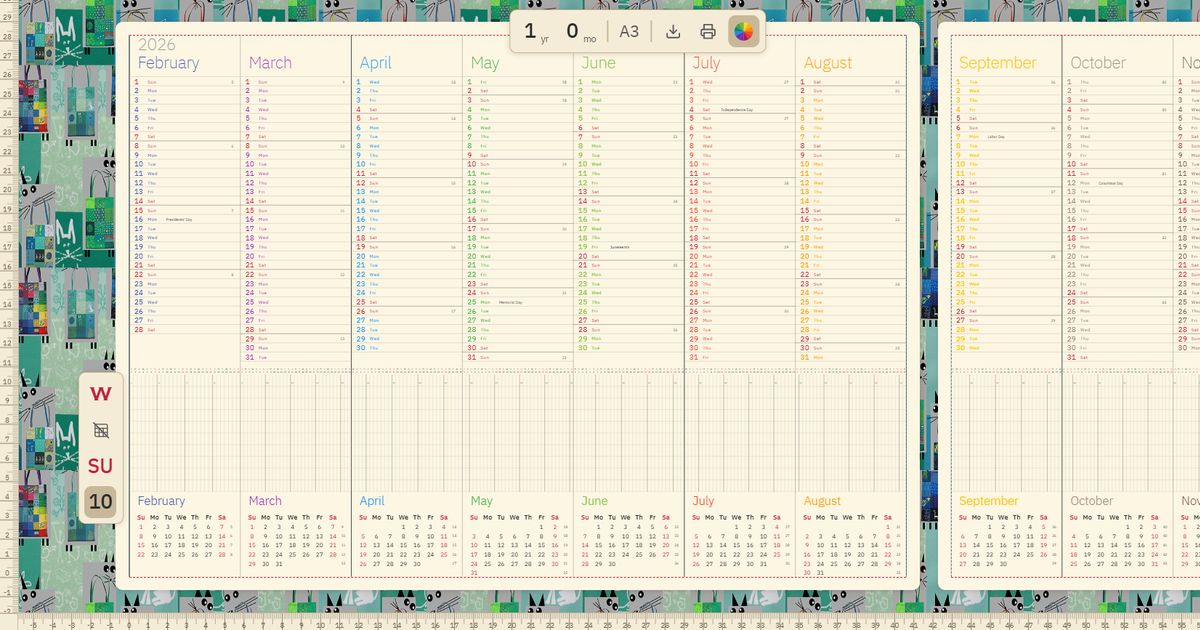
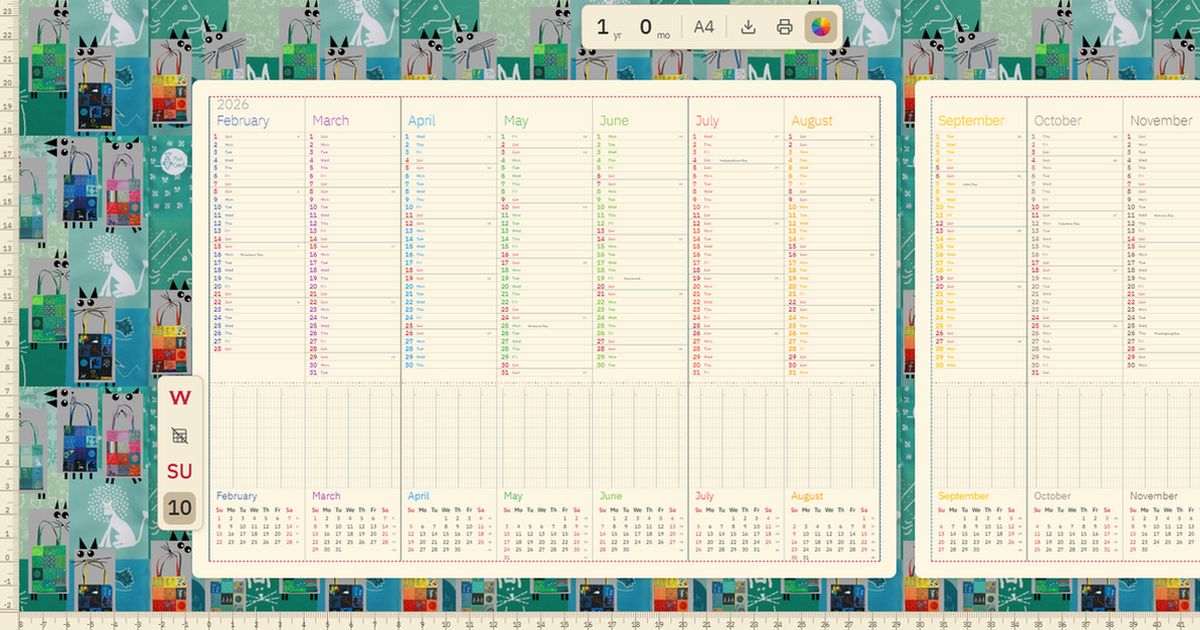
Update docs: Architecture, README, User Manual, LLM texts for Phase 7
- ARCHITECTURE.md: SCALE=16 layout constants, progressive pipeline, optimizations table
- miro-app/README.md: native elements, updated project structure
- README.md: og-image.jpg, Miro App feature row
- USER_MANUAL.md: Miro App section (usage, web vs Miro comparison)
- llms.txt: Miro plugin mention
- llms-full.txt: full Miro App section, roadmap item 10 marked done

diff --git a/miro-app/ARCHITECTURE.md b/miro-app/ARCHITECTURE.md
@@ -40,7 +40,7 @@ app.tsx → generator.ts → native-generator.ts → calendar-engine.ts
 
 ---
 
-## Calendar Layout (SVG Rows)
+## Calendar Layout (Rows)
 
 The calendar is composed of 6 horizontal rows per month column:
 
@@ -64,23 +64,25 @@ The calendar is composed of 6 horizontal rows per month column:
 ├──────────────────────────────────────────┤
 │ R6  Box calendar grid (mini month)       │  boxHeaderH + weeks × boxCellH
 │     7-column grid (Mo Tu We Th Fr Sa Su) │
-│     Week numbers on left                 │
+│     Week numbers on right                │
 └──────────────────────────────────────────┘
 ```
 
 ### Key Layout Constants
 
-| Constant     | Value  | Description                              |
-|-------------|--------|------------------------------------------|
-| `mW`        | 124    | Month column width (~4mm per Gantt day)  |
-| `yearH`     | 20     | R1 height                                |
-| `monthH`    | 30     | R2 height                                |
-| `verRowH`   | 11     | R3 single day row height                 |
-| `boxNameH`  | 28     | R5 header height                         |
-| `boxHeaderH`| 8      | R6 day-of-week header                    |
-| `boxCellH`  | 11     | R6 single week row                       |
+All base values are multiplied by `SCALE = 16` to produce Miro dp units:
 
-All values are in SVG user units (equivalent to millimeters when printed).
+| Constant     | Base   | Miro dp | Description                              |
+|-------------|--------|---------|------------------------------------------|
+| `mW`        | 124    | 1984    | Month column width                       |
+| `yearH`     | 20     | 320     | R1 height                                |
+| `monthH`    | 30     | 480     | R2 height                                |
+| `verRowH`   | 11     | 176     | R3 single day row height                 |
+| `boxNameH`  | 28     | 448     | R5 header height                         |
+| `boxHeaderH`| 8      | 128     | R6 day-of-week header                    |
+| `boxCellH`  | 11     | 176     | R6 single week row                       |
+| `PAD_L`     | —      | 60      | Left text padding                        |
+| `LINE_W`    | —      | 14      | Grid line thickness                      |
 
 ---
 
@@ -124,28 +126,40 @@ Native Miro text elements use the built-in `plex_sans` font family (IBM Plex San
 
 ```
 User clicks "Generate ▶"
-  1. clearCalendar()              — remove previous elements
-  2. generateMonths()             — date math, holidays, box weeks
-  3. Build item definitions       — text, shape, frame objects for R1–R6
-  4. Batch create on Miro board   — groups of 20, 120ms delay between batches
-     ├── miro.board.createFrame()  — background frame
-     ├── miro.board.createText()   — labels, day numbers, month names
-     └── miro.board.createShape()  — grid lines, borders (thin rectangles)
-  5. miro.board.viewport.zoomTo() — focus viewport
-  6. Store all item IDs in board appData for cleanup
+  1. generateMonths()              — date math, holidays, box weeks
+  2. Compute layout dimensions     — totalW, totalH, Y offsets for R1–R6
+  3. createFrame()                 — background frame (#FDF6E3)
+  4. Full-width horizontal lines   — merged R3 separators (31) + Gantt rows
+  5. Month borders (vertical)      — year/quarter/month boundaries
+  6. Progressive rendering:
+     ├── Phase 1: first 3 months   — generateMonth() × 3
+     ├── zoomTo(frame)             — user sees results immediately
+     └── Phase 2: remaining months — generateMonth() × (N-3)
+  7. Year labels                   — one per year boundary
+  8. group({ items: allItems })    — group all elements
+  9. Store frame ID in appData     — for future reference
 ```
 
-### Rate Limiting
+### Optimizations
 
-Miro SDK has Level 1 rate limiting (~100 API calls/sec). Items are batched in groups of 20 with `Promise.all()`, with a 120ms delay between batches. A 12-month calendar generates ~1000–1500 elements.
+| Technique | Effect |
+|-----------|--------|
+| No `.sync()` calls | Styles passed in `createText()`/`createShape()` constructor |
+| Merged horizontal lines | R3: 360→31 shapes, Gantt: 120→10 shapes |
+| `BATCH_SIZE = 50` | 50 parallel `Promise.all()` calls per batch |
+| Direct object storage | `allItems[]` stores Miro objects, no `getById()` loop for grouping |
+| Progressive rendering | 3 months → zoom → rest. UX feels ~3× faster |
+| Per-month batching | Box calendar ~40 elements/month, prevents API overload |
+
+Previous calendars are **not deleted** on re-generate — new calendars are created alongside existing ones.
 
 ### Board Data Storage
 
 ```typescript
-await miro.board.setAppData('wallplanIds', [...allItemIds]);
+await miro.board.setAppData('wallplanIds', [frame.id]);
 ```
 
-Used by `clearCalendar()` to remove previously generated calendars.
+Stores the frame ID for reference. Previous calendars are preserved.
 
 ---
 

diff --git a/miro-app/README.md b/miro-app/README.md
@@ -1,6 +1,6 @@
 # WallPlan — Miro App
 
-Multi-year Gantt calendar generator for [Miro](https://miro.com). Generates a complete calendar directly on your Miro board as a high-resolution SVG image.
+Multi-year Gantt calendar generator for [Miro](https://miro.com). Generates a complete calendar directly on your Miro board as **native Miro elements** (text, shapes, frames) — fully editable by users.
 
 ## Features
 
@@ -12,7 +12,9 @@ Multi-year Gantt calendar generator for [Miro](https://miro.com). Generates a co
 - **US Federal Holidays** with automatic calculation
 - **Box calendar** (mini month grid) for each month
 - **Week numbers** (ISO standard)
-- **Embedded fonts** (IBM Plex Sans) for consistent rendering
+- **Embedded fonts** (IBM Plex Sans via Miro's `plex_sans`) for consistent rendering
+- **Progressive rendering** — first 3 months appear instantly, rest loads in background
+- **Non-destructive** — new calendars created alongside existing ones
 
 ## Quick Start
 
@@ -27,7 +29,7 @@ Then add `http://localhost:3000` as the App URL in your [Miro Developer Dashboar
 
 | Document | Description |
 |----------|-------------|
-| [ARCHITECTURE.md](./ARCHITECTURE.md) | Technical architecture, module map, SVG layout system |
+| [ARCHITECTURE.md](./ARCHITECTURE.md) | Technical architecture, module map, layout system |
 | [USER_GUIDE.md](./USER_GUIDE.md) | End-user guide with settings explanation |
 | [APP_SUBMISSION.md](./APP_SUBMISSION.md) | Marketplace submission checklist |
 
@@ -37,7 +39,7 @@ Then add `http://localhost:3000` as the App URL in your [Miro Developer Dashboar
 - Vite (build tool)
 - Miro Web SDK 2.0
 - Mirotone CSS (design system)
-- IBM Plex Sans (Google Fonts, base64-embedded)
+- IBM Plex Sans (`plex_sans` — native Miro font)
 
 ## Project Structure
 
@@ -45,9 +47,10 @@ Then add `http://localhost:3000` as the App URL in your [Miro Developer Dashboar
 src/
 ├── app.tsx              # Panel UI (settings form)
 ├── index.ts             # SDK entry point
-├── generator.ts         # SVG → Miro board orchestrator
+├── generator.ts         # Orchestrator — delegates to native-generator
+├── native-generator.ts  # Native Miro elements builder (shapes, text, frames)
 ├── calendar-engine.ts   # Pure date math (no DOM)
-├── svg-renderer.ts      # SVG string builder
+├── svg-renderer.ts      # SVG string builder (legacy, kept for reference)
 └── assets/style.css     # Mirotone overrides
 ```
 

diff --git a/USER_MANUAL.md b/USER_MANUAL.md
@@ -213,6 +213,41 @@ Each month column contains three sections, top to bottom:
 
 ---
 
+## 🧩 Miro App
+
+WallPlan is also available as a **Miro plugin**. It generates the same calendar layout directly on a Miro board as native elements (text, shapes, frames) — fully editable by any Miro user.
+
+### How to Use
+
+1. Install the WallPlan app from the Miro panel
+2. Open the sidebar → configure duration, Gantt rows, week start
+3. Click **Generate ▶**
+4. First 3 months appear immediately, then the viewport zooms to the calendar
+5. Remaining months generate in the background
+
+### Key Differences from Web Version
+
+| Feature | Web | Miro App |
+|---------|-----|----------|
+| Output | SVG / PDF file | Native Miro board elements |
+| Editable | No (static image) | Yes — move, recolor, resize any element |
+| Export | Download SVG/PDF | Miro's built-in export |
+| Paper sizes | A4, A3, 914mm | N/A (infinite Miro canvas) |
+| Colors toggle | Yes | No (temperature colors always on) |
+| Re-generate | Replaces calendar | Creates new calendar alongside existing |
+
+### Development
+
+```bash
+cd miro-app
+npm install
+npm run start    # localhost:3000
+```
+
+Set `http://localhost:3000` as App URL in [Miro Developer Dashboard](https://developers.miro.com).
+
+---
+
 ## 🌐 Languages
 
 - **English**: [osovsky.com/wallplan](https://osovsky.com/wallplan/)

diff --git a/README.md b/README.md
@@ -58,6 +58,7 @@ A browser-based multi-year calendar generator with Gantt-style grid, vertical da
 | **Print optimized** | Custom print CSS — what you see is what you get |
 | **Private** | All data stays in browser, never sent anywhere |
 | **Zero dependencies** | No npm, no framework, pure vanilla JS |
+| **Miro App** | Native Miro board elements via [miro-app](./miro-app/) — progressive rendering, batch optimized |
 
 ---
 
@@ -126,7 +127,7 @@ Bottom toolbar uses CSS Grid with 6 equal columns — each element centered in i
 | `style.css` | Miro-style UI, Moleskine palette, responsive layout |
 | `index.html` | Main app shell + GA4 tracking |
 | `fonts/` | IBM Plex Sans (7 weights) + Copper Penny DTP |
-| `og-image.png` | OG social preview image (1200×630) |
+| `og-image.jpg` | OG social preview image (1200×630) |
 | `USER_MANUAL.md` | Comprehensive user guide |
 | `COLORS.md` | Month color palette reference (hex, names, rationale) |
 
